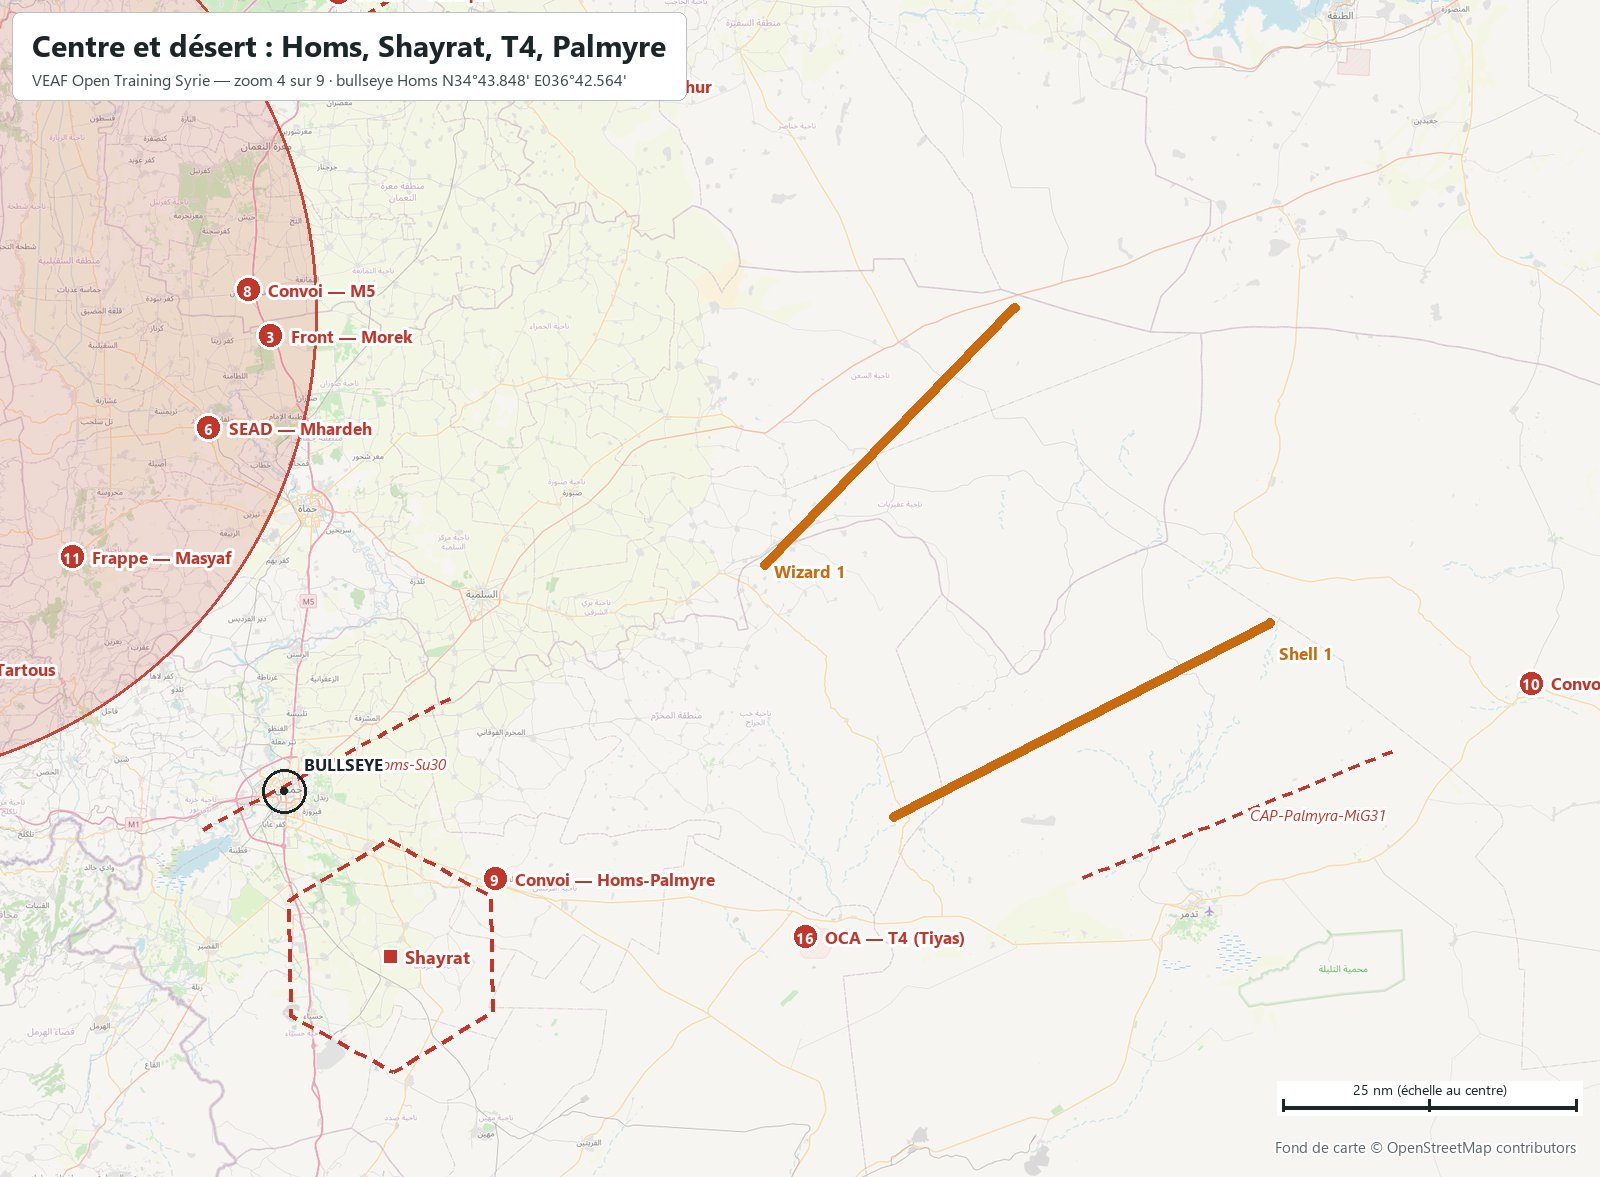
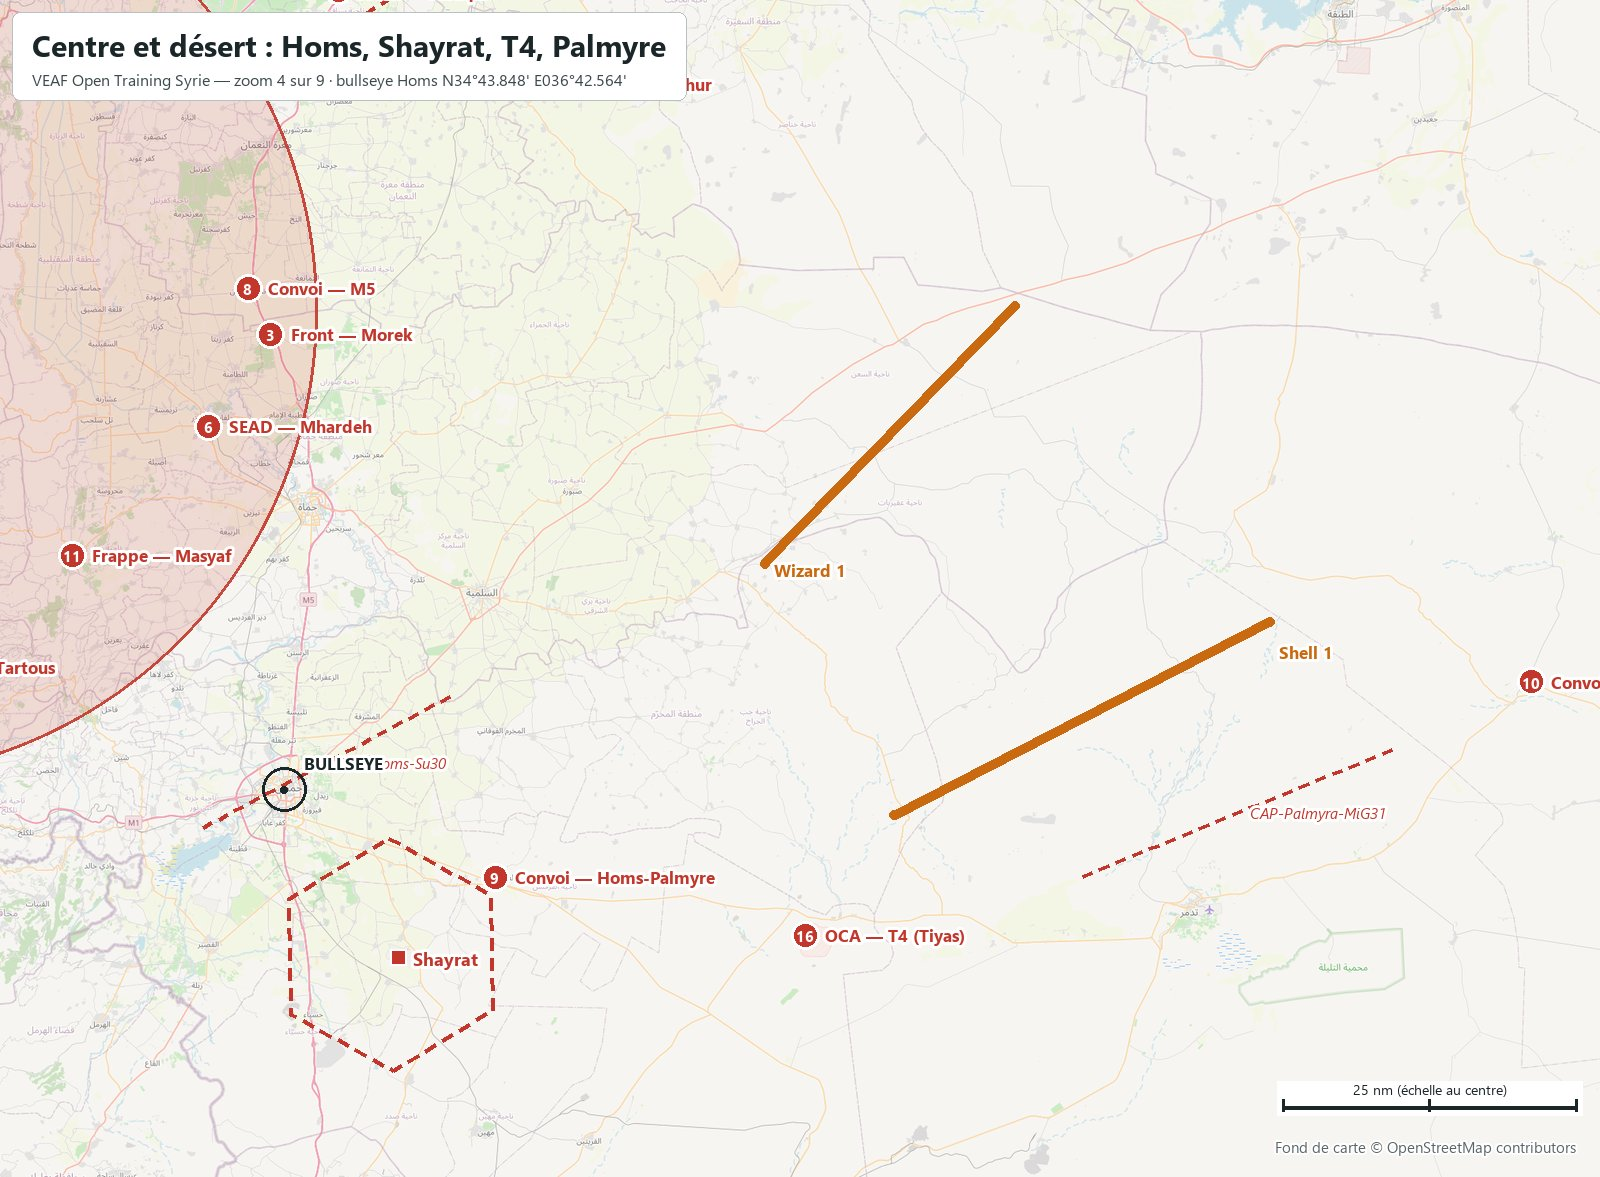
chore(mission): recompilée en 6.29.0, rôles sans avion, CTLD 2.2.0 et plan radio réparé
- Rôles sans avion : 5 slots par rôle et par camp (Game Master, commandant
  tactique, JTAC, observateur) et isPilotControlVehicles = true ; la v6
  était née à 0.
- ctld-config.yaml passe au catalogue CTLD 2.2.0 : trois réglages ajoutés
  à leur valeur par défaut, le message « réglage(s) absent(s) » disparaît.
- Plan radio : S-3B Stennis 295.0, S-3B Roosevelt 296.0 et Darkstar 1
  283.0 étaient sur la radio 2, que VMCT résout en VHF ; l'injecteur les
  écartait sans rien dire, aucun appareil ne les portait. Ils passent sur
  la radio 1 (canaux 18-20), King Hussein, Akrotiri et At Tanf sur la
  radio 2 (canaux 12-14) avec leur fréquence VHF de tour.
- gen_readme.py n'annonce plus sur la radio 2 que la fréquence VHF
  réellement injectée, et trie les canaux dans l'ordre numérique.
- Positions des bases au centre des pistes (VMCT #1098) : README, cartes
  et images du briefing redessinées.
- README : rôles sans avion et menu vide du Game Master (VMCT #128),
  commandes mission validate / mission build, version 6.29.0, limite
  connue sur les sous-réglages CTLD 2.2.0.
- veaf-config.lua régénéré par la 6.29.0.

L'option RADIO.menu_stats (FEAT-RADIO-MENU-WATCH) n'a servi qu'au build
instrumenté et n'est pas committée.

diff --git a/tools/gen_readme.py b/tools/gen_readme.py
@@ -251,9 +251,13 @@ w("")
 for sd in ("blue", "red"):
     rows = []
     for role, title in (("primary_1", "Radio 1 (UHF)"), ("primary_2", "Radio 2 (V/UHF)")):
-        for k, v in sorted(D["radio"][sd][role].items()):
-            f = D["channels"].get(v, {})
-            mhz = f.get("uhf") if role == "primary_1" else f.get("vhf", f.get("uhf"))
+        for k, v in sorted(D["radio"][sd][role].items(), key=lambda kv: int(kv[0])):
+            # VMCT ne pose sur une liste que la fréquence de sa bande (primary_1 UHF, primary_2 VHF) et écarte
+            # sans le dire un canal qui n'en a pas : ne pas l'annoncer aux pilotes
+            mhz = D["channels"].get(v, {}).get("uhf" if role == "primary_1" else "vhf")
+            if mhz is None:
+                print(f"[gen_readme] {sd} {role} canal {k} ({v}) : pas de fréquence dans la bande, non injecté")
+                continue
             rows.append([title, c(k), D["titles"].get(v, v).replace("Base-", ""), c(mhz)])
     w(f"### {side[sd]}")
     w("")
@@ -276,6 +280,10 @@ w("- `-cas` : fait apparaître une cible CAS aléatoire au marqueur.")
 w("- `-point <nom>` : nomme un point de la carte.")
 w("- `-smoke`, `-light`, `-signal` : fumigène, éclairage, fusée.")
 w("- `-jtac`, `-afac` : JTAC au sol, drone AFAC.")
+w("")
+w("Rôles sans avion : 5 slots par camp pour chaque rôle (Game Master, commandant tactique, JTAC, observateur), et un "
+  "pilote peut prendre la main sur les véhicules au sol. Le menu F10 VEAF reste vide pour un Game Master : il n'a pas de "
+  "groupe, et les commandes sécurisées ne sont posées que groupe par groupe (VMCT #128, limite de DCS).")
 w("")
 w(open(TOOLS / "readme_makers.md", encoding="utf-8").read())
 open(ROOT / "README.md", "w", encoding="utf-8").write("\n".join(md) + "\n")

diff --git a/README.md b/README.md
@@ -26,20 +26,20 @@ Carrés : bases avec slots (bleu / rouge). Triangles : FARP. Traits pleins : hip
 
 | Base | Camp | Position | Bullseye | UHF | VHF | FM | Défense |
 |---|---|---|---|---|---|---|---|
-| **Adana Sakirpasa** | Bleu | `N36°59.303' E035°17.493'` | `335°/152 nm` | `251.25` | `121.1` | `39.7` | Hawk + Avenger |
-| **Akrotiri** | Bleu | `N34°35.644' E032°58.489'` | `270°/185 nm` | `252.0` | `128.0` | `40.45` | NASAMS + Avenger |
+| **Adana Sakirpasa** | Bleu | `N36°58.916' E035°16.806'` | `334°/152 nm` | `251.25` | `121.1` | `39.7` | Hawk + Avenger |
+| **Akrotiri** | Bleu | `N34°35.422' E032°59.267'` | `270°/185 nm` | `252.0` | `128.0` | `40.45` | NASAMS + Avenger |
 | **At Tanf** | Bleu | `N33°30.387' E038°36.893'` | `128°/120 nm` | `252.9` | `121.1` | `41.35` | NASAMS + Avenger |
-| **Gaziantep** | Bleu | `N36°57.107' E037°27.765'` | `017°/138 nm` | `250.1` | `120.1` | `38.5` | Hawk + Avenger |
-| **Hatay** | Bleu | `N36°22.276' E036°17.885'` | `350°/100 nm` | `250.3` | `128.5` | `38.7` | Hawk + Avenger |
-| **Incirlik** (base mère) | Bleu | `N36°59.655' E035°24.763'` | `337°/150 nm` | `360.1` | `122.1` | `38.75` | Patriot + Hawk + Avenger |
-| **King Hussein Air College** | Bleu | `N32°20.928' E036°16.213'` | `190°/144 nm` | `250.45` | `118.3` | `38.9` | Hawk + Avenger |
-| **Muwaffaq Salti** | Bleu | `N31°49.150' E036°47.447'` | `180°/174 nm` | `253.15` | `120.5` | `41.6` | Patriot + Hawk + Avenger + Radar d'alerte 1L13 |
-| **Paphos** | Bleu | `N34°43.344' E032°28.308'` | `272°/210 nm` | `252.1` | `119.9` | `40.55` | NASAMS + Avenger |
-| **Ramat David** | Bleu | `N32°39.465' E035°11.464'` | `213°/146 nm` | `251.3` | `118.6` | `39.75` | Hawk + Avenger + Patriot |
-| **Tel Nof** | Bleu | `N31°49.783' E034°50.277'` | `210°/198 nm` | `250.65` | `128.1` | `39.1` | Hawk + Avenger |
-| **Al-Dumayr** | Rouge | `N33°36.908' E036°45.804'` | `179°/67 nm` | `253.35` | `120.3` | `41.8` | SA-11 + SA-15 |
-| **Bassel Al-Assad** | Rouge | `N35°24.772' E035°56.997'` | `319°/55 nm` | `250.6` | `118.1` | `39.05` | SA-11 + Pantsir (SA-22) |
-| **Shayrat** | Rouge | `N34°29.678' E036°53.668'` | `148°/17 nm` | `251.6` | `120.2` | `40.05` | SA-11 + SA-15 |
+| **Gaziantep** | Bleu | `N36°56.888' E037°28.701'` | `017°/138 nm` | `250.1` | `120.1` | `38.5` | Hawk + Avenger |
+| **Hatay** | Bleu | `N36°21.739' E036°17.245'` | `350°/100 nm` | `250.3` | `128.5` | `38.7` | Hawk + Avenger |
+| **Incirlik** (base mère) | Bleu | `N37°00.123' E035°25.566'` | `337°/150 nm` | `360.1` | `122.1` | `38.75` | Patriot + Hawk + Avenger |
+| **King Hussein Air College** | Bleu | `N32°21.401' E036°15.591'` | `190°/144 nm` | `250.45` | `118.3` | `38.9` | Hawk + Avenger |
+| **Muwaffaq Salti** | Bleu | `N31°49.057' E036°46.721'` | `180°/175 nm` | `253.15` | `120.5` | `41.6` | Patriot + Hawk + Avenger + Radar d'alerte 1L13 |
+| **Paphos** | Bleu | `N34°43.089' E032°29.088'` | `272°/209 nm` | `252.1` | `119.9` | `40.55` | NASAMS + Avenger |
+| **Ramat David** | Bleu | `N32°39.985' E035°11.050'` | `213°/145 nm` | `251.3` | `118.6` | `39.75` | Hawk + Avenger + Patriot |
+| **Tel Nof** | Bleu | `N31°50.301' E034°49.958'` | `210°/197 nm` | `250.65` | `128.1` | `39.1` | Hawk + Avenger |
+| **Al-Dumayr** | Rouge | `N33°36.582' E036°44.948'` | `180°/67 nm` | `253.35` | `120.3` | `41.8` | SA-11 + SA-15 |
+| **Bassel Al-Assad** | Rouge | `N35°24.231' E035°57.014'` | `319°/55 nm` | `250.6` | `118.1` | `39.05` | SA-11 + Pantsir (SA-22) |
+| **Shayrat** | Rouge | `N34°29.412' E036°54.457'` | `147°/17 nm` | `251.6` | `120.2` | `40.05` | SA-11 + SA-15 |
 | **FARP Reyhanli** | Bleu | `N36°15.743' E036°32.198'` | `356°/92 nm` | — | `129.5 AM` | — | dépôt de munitions (CTLD) |
 | **FARP Ceyhan** | Bleu | `N37°00.731' E035°50.978'` | `345°/143 nm` | — | `130.5 AM` | — | dépôt de munitions (CTLD) |
 | **FARP Golan** | Bleu | `N32°58.998' E035°40.139'` | `208°/117 nm` | — | `130.0 AM` | — | dépôt de munitions (CTLD) |
@@ -246,22 +246,22 @@ Des joueurs volent des deux côtés. Le combat entre joueurs est **permis sur le
 | Sanctuaire | Protège | Centre (bullseye) |
 |---|---|---|
 | Incirlik | Bleu | `337°/150 nm` |
-| Adana Sakirpasa | Bleu | `335°/152 nm` |
+| Adana Sakirpasa | Bleu | `334°/152 nm` |
 | Hatay | Bleu | `350°/100 nm` |
 | Gaziantep | Bleu | `017°/138 nm` |
-| Ramat David | Bleu | `213°/146 nm` |
-| Tel Nof | Bleu | `210°/198 nm` |
-| Muwaffaq Salti | Bleu | `180°/174 nm` |
+| Ramat David | Bleu | `213°/145 nm` |
+| Tel Nof | Bleu | `210°/197 nm` |
+| Muwaffaq Salti | Bleu | `180°/175 nm` |
 | King Hussein Air College | Bleu | `190°/144 nm` |
 | Akrotiri | Bleu | `270°/185 nm` |
-| Paphos | Bleu | `272°/210 nm` |
+| Paphos | Bleu | `272°/209 nm` |
 | At Tanf | Bleu | `128°/120 nm` |
 | FARP Reyhanli | Bleu | `356°/92 nm` |
 | FARP Golan | Bleu | `208°/117 nm` |
 | FARP Ceyhan | Bleu | `345°/143 nm` |
 | Bassel Al-Assad | Rouge | `319°/55 nm` |
-| Shayrat | Rouge | `148°/17 nm` |
-| Al-Dumayr | Rouge | `179°/67 nm` |
+| Shayrat | Rouge | `147°/17 nm` |
+| Al-Dumayr | Rouge | `180°/67 nm` |
 
 ### Arène
 
@@ -346,6 +346,14 @@ Défense permanente des deux camps : courte et moyenne portée sur chaque base a
 | Radio | Canal | Nom | MHz |
 |---|---|---|---|
 | Radio 1 (UHF) | `1` | Guard | `243` |
+| Radio 1 (UHF) | `2` | Overlord 1 AWACS N | `280.0` |
+| Radio 1 (UHF) | `3` | Magic 1 AWACS S | `281.0` |
+| Radio 1 (UHF) | `4` | Texaco 1/BS/50Y | `290.0` |
+| Radio 1 (UHF) | `5` | Arco 1/BM/51Y | `291.0` |
+| Radio 1 (UHF) | `6` | Texaco 2/BS/52Y | `292.0` |
+| Radio 1 (UHF) | `7` | Arco 2/BM/53Y | `293.0` |
+| Radio 1 (UHF) | `8` | Stennis/74X/ICLS11 | `305.0` |
+| Radio 1 (UHF) | `9` | Roosevelt/71X/ICLS12 | `306.0` |
 | Radio 1 (UHF) | `10` | Tarawa/73X/ICLS13 | `307.0` |
 | Radio 1 (UHF) | `11` | Incirlik / 21X | `360.1` |
 | Radio 1 (UHF) | `12` | Adana Sakirpasa | `251.25` |
@@ -354,27 +362,10 @@ Défense permanente des deux camps : courte et moyenne portée sur chaque base a
 | Radio 1 (UHF) | `15` | Ramat David / 84X | `251.3` |
 | Radio 1 (UHF) | `16` | Tel Nof / 87X | `250.65` |
 | Radio 1 (UHF) | `17` | Muwaffaq Salti | `253.15` |
-| Radio 1 (UHF) | `18` | King Hussein Air College | `250.45` |
-| Radio 1 (UHF) | `19` | Akrotiri / 107X | `252.0` |
-| Radio 1 (UHF) | `2` | Overlord 1 AWACS N | `280.0` |
-| Radio 1 (UHF) | `20` | At Tanf | `252.9` |
-| Radio 1 (UHF) | `3` | Magic 1 AWACS S | `281.0` |
-| Radio 1 (UHF) | `4` | Texaco 1/BS/50Y | `290.0` |
-| Radio 1 (UHF) | `5` | Arco 1/BM/51Y | `291.0` |
-| Radio 1 (UHF) | `6` | Texaco 2/BS/52Y | `292.0` |
-| Radio 1 (UHF) | `7` | Arco 2/BM/53Y | `293.0` |
-| Radio 1 (UHF) | `8` | Stennis/74X/ICLS11 | `305.0` |
-| Radio 1 (UHF) | `9` | Roosevelt/71X/ICLS12 | `306.0` |
+| Radio 1 (UHF) | `18` | S-3B Stennis/55Y | `295.0` |
+| Radio 1 (UHF) | `19` | S-3B Roosevelt/56Y | `296.0` |
+| Radio 1 (UHF) | `20` | Darkstar 1 Arène | `283.0` |
 | Radio 2 (V/UHF) | `1` | Guard | `121.5` |
-| Radio 2 (V/UHF) | `10` | Blade | `135.8` |
-| Radio 2 (V/UHF) | `11` | Gordon | `135.9` |
-| Radio 2 (V/UHF) | `12` | S-3B Stennis/55Y | `295.0` |
-| Radio 2 (V/UHF) | `13` | S-3B Roosevelt/56Y | `296.0` |
-| Radio 2 (V/UHF) | `14` | Darkstar 1 Arène | `283.0` |
-| Radio 2 (V/UHF) | `15` | FARP Reyhanli | `129.5` |
-| Radio 2 (V/UHF) | `16` | FARP Golan | `130.0` |
-| Radio 2 (V/UHF) | `17` | FARP Ceyhan | `130.5` |
-| Radio 2 (V/UHF) | `18` | Paphos / 79X | `119.9` |
 | Radio 2 (V/UHF) | `2` | Archer | `135.0` |
 | Radio 2 (V/UHF) | `3` | Arctic | `135.1` |
 | Radio 2 (V/UHF) | `4` | Astro | `135.2` |
@@ -383,6 +374,15 @@ Défense permanente des deux camps : courte et moyenne portée sur chaque base a
 | Radio 2 (V/UHF) | `7` | Ninja | `135.5` |
 | Radio 2 (V/UHF) | `8` | Pinder | `135.6` |
 | Radio 2 (V/UHF) | `9` | Bengal | `135.7` |
+| Radio 2 (V/UHF) | `10` | Blade | `135.8` |
+| Radio 2 (V/UHF) | `11` | Gordon | `135.9` |
+| Radio 2 (V/UHF) | `12` | King Hussein Air College | `118.3` |
+| Radio 2 (V/UHF) | `13` | Akrotiri / 107X | `128.0` |
+| Radio 2 (V/UHF) | `14` | At Tanf | `121.1` |
+| Radio 2 (V/UHF) | `15` | FARP Reyhanli | `129.5` |
+| Radio 2 (V/UHF) | `16` | FARP Golan | `130.0` |
+| Radio 2 (V/UHF) | `17` | FARP Ceyhan | `130.5` |
+| Radio 2 (V/UHF) | `18` | Paphos / 79X | `119.9` |
 
 ### Rouge
 
@@ -396,7 +396,6 @@ Défense permanente des deux camps : courte et moyenne portée sur chaque base a
 | Radio 1 (UHF) | `6` | Shayrat | `251.6` |
 | Radio 1 (UHF) | `7` | Al-Dumayr | `253.35` |
 | Radio 2 (V/UHF) | `1` | Guard | `121.5` |
-| Radio 2 (V/UHF) | `10` | Al-Dumayr | `120.3` |
 | Radio 2 (V/UHF) | `2` | Berkut | `136.0` |
 | Radio 2 (V/UHF) | `3` | Sokol | `136.1` |
 | Radio 2 (V/UHF) | `4` | Strizh | `136.2` |
@@ -405,6 +404,7 @@ Défense permanente des deux camps : courte et moyenne portée sur chaque base a
 | Radio 2 (V/UHF) | `7` | Grach | `136.5` |
 | Radio 2 (V/UHF) | `8` | Bassel Al-Assad | `118.1` |
 | Radio 2 (V/UHF) | `9` | Shayrat | `120.2` |
+| Radio 2 (V/UHF) | `10` | Al-Dumayr | `120.3` |
 
 Préréglages injectés dans les appareils à radio programmable. FM : canaux 1 à 30 = 30 à 59 MHz. Les canaux VEAF sont hors de la bande des tours de Syrie (UHF 243-260, VHF 118-134.6).
 
@@ -438,23 +438,26 @@ Sur le serveur VEAF, la météo réelle d'Incirlik est appliquée au lancement (
 - `-smoke`, `-light`, `-signal` : fumigène, éclairage, fusée.
 - `-jtac`, `-afac` : JTAC au sol, drone AFAC.
 
+Rôles sans avion : 5 slots par camp pour chaque rôle (Game Master, commandant tactique, JTAC, observateur), et un pilote peut prendre la main sur les véhicules au sol. Le menu F10 VEAF reste vide pour un Game Master : il n'a pas de groupe, et les commandes sécurisées ne sont posées que groupe par groupe (VMCT #128, limite de DCS).
+
 ## Pour les créateurs de mission
 
 Construite de zéro le 02/10/2026 avec VEAF Mission Creation Tools (`veaf-tools`) et le serveur MCP `veaf-mission-mcp`,
 d'après le prompt Open Training de VMCT, en s'inspirant de l'Open Training Syrie v5 (`VEAF-Open-Training-Mission-Syria`)
 sans la recopier : bases, QRA, CAP et esprit repris ; Damas et le Liban, bleus en v5, rendus au régime et à la neutralité.
+Recompilée le 10/10/2026 avec `veaf-tools` 6.29.0.
 
 ### Construire
 
 ```powershell
 # outils et scripts VEAF installés par l'updater (veaf-tools.exe + published/, hors dépôt)
-.\veaf-tools.exe validate
+.\veaf-tools.exe mission validate
 
 # configuration serveur : sécurité active, logs info, 15 variantes météo dans missions/
-.\veaf-tools.exe build
+.\veaf-tools.exe mission build
 
 # essais sur un poste : sécurité coupée, logs debug, noms de groupes lisibles, pas de variantes
-.\veaf-tools.exe build --profile LOCAL_TEST
+.\veaf-tools.exe mission build --profile LOCAL_TEST
 ```
 
 Mission de test locale (game master, A-10C II en slot classique au sol moteur chaud à Incirlik, pont dcs-bridge) :
@@ -497,4 +500,5 @@ poetry -C ..\VEAF-Mission-Creation-Tools run python "$PWD\tools\verify.py"      
   pas celle d'ASSETS (correction en cours dans VMCT). D'où `jtacLaserCodeMax: 1686` dans `ctld-config.yaml` (le modèle
   `veafSpawn-MQ9 - AFAC - JTAC - DRONE` prend 1686) et des Reaper en bas de plage, 1511 et 1512, sur la fréquence que
   CTLD en déduit (35.55 et 35.6 FM).
+- CTLD 2.2.0 : `ctld-config.yaml` a les réglages de premier niveau du catalogue 2.2.0, pas ses nouveautés par appareil (rangée de caisses derrière l'appareil, véhicules en Mi-8, taille des modèles de caisses). CTLD garde pour elles le comportement 2.0 sans rien signaler ; les ajouter changerait le jeu (lot VMCT `FIX-OPEN-TRAINING-CAUCASUS-FINDINGS`, ticket 02).
 

diff --git a/tools/readme_makers.md b/tools/readme_makers.md
@@ -3,18 +3,19 @@
 Construite de zéro le 02/10/2026 avec VEAF Mission Creation Tools (`veaf-tools`) et le serveur MCP `veaf-mission-mcp`,
 d'après le prompt Open Training de VMCT, en s'inspirant de l'Open Training Syrie v5 (`VEAF-Open-Training-Mission-Syria`)
 sans la recopier : bases, QRA, CAP et esprit repris ; Damas et le Liban, bleus en v5, rendus au régime et à la neutralité.
+Recompilée le 10/10/2026 avec `veaf-tools` 6.29.0.
 
 ### Construire
 
 ```powershell
 # outils et scripts VEAF installés par l'updater (veaf-tools.exe + published/, hors dépôt)
-.\veaf-tools.exe validate
+.\veaf-tools.exe mission validate
 
 # configuration serveur : sécurité active, logs info, 15 variantes météo dans missions/
-.\veaf-tools.exe build
+.\veaf-tools.exe mission build
 
 # essais sur un poste : sécurité coupée, logs debug, noms de groupes lisibles, pas de variantes
-.\veaf-tools.exe build --profile LOCAL_TEST
+.\veaf-tools.exe mission build --profile LOCAL_TEST
 ```
 
 Mission de test locale (game master, A-10C II en slot classique au sol moteur chaud à Incirlik, pont dcs-bridge) :
@@ -57,3 +58,4 @@ poetry -C ..\VEAF-Mission-Creation-Tools run python "$PWD\tools\verify.py"      
   pas celle d'ASSETS (correction en cours dans VMCT). D'où `jtacLaserCodeMax: 1686` dans `ctld-config.yaml` (le modèle
   `veafSpawn-MQ9 - AFAC - JTAC - DRONE` prend 1686) et des Reaper en bas de plage, 1511 et 1512, sur la fréquence que
   CTLD en déduit (35.55 et 35.6 FM).
+- CTLD 2.2.0 : `ctld-config.yaml` a les réglages de premier niveau du catalogue 2.2.0, pas ses nouveautés par appareil (rangée de caisses derrière l'appareil, véhicules en Mi-8, taille des modèles de caisses). CTLD garde pour elles le comportement 2.0 sans rien signaler ; les ajouter changerait le jeu (lot VMCT `FIX-OPEN-TRAINING-CAUCASUS-FINDINGS`, ticket 02).
